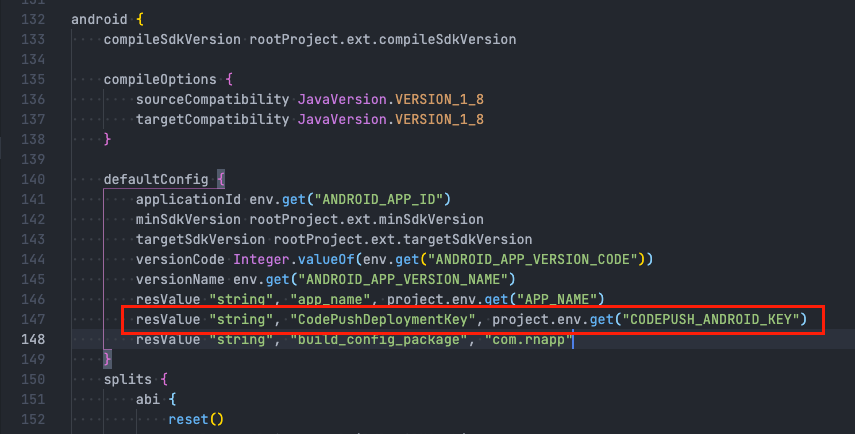
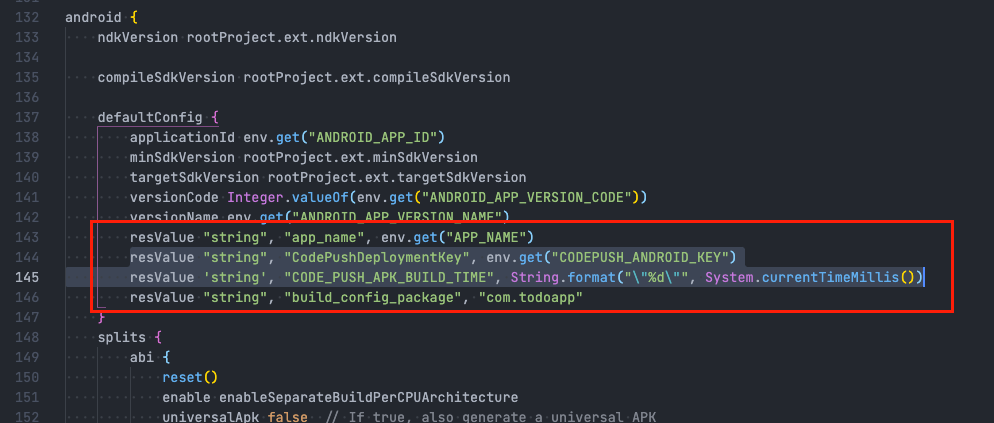
Update: react-native-guide

diff --git a/react-native-guide/environment-setup/environment-setup.md b/react-native-guide/environment-setup/environment-setup.md
@@ -125,7 +125,7 @@ apply from: project(':react-native-config').projectDir.getPath() + "/dotenv.grad
         targetSdkVersion rootProject.ext.targetSdkVersion
         versionCode Integer.valueOf(env.get("ANDROID_APP_VERSION_CODE"))
         versionName env.get("ANDROID_APP_VERSION_NAME")
-        resValue "string", "app_name", project.env.get("APP_NAME")
+        resValue "string", "app_name", env.get("APP_NAME")
         resValue "string", "build_config_package", {package-name}
     }
 ```

diff --git a/react-native-guide/code-push-setup/code-push-setup.md b/react-native-guide/code-push-setup/code-push-setup.md
@@ -81,7 +81,8 @@ apply from: "../../node_modules/react-native-code-push/android/codepush.gradle"
 3. Add this under `android { defaultConfig {...`
 
 ```
-resValue "string", "CodePushDeploymentKey", project.env.get("CODEPUSH_ANDROID_KEY")
+        resValue "string", "CodePushDeploymentKey", env.get("CODEPUSH_ANDROID_KEY")
+        resValue 'string', "CODE_PUSH_APK_BUILD_TIME", String.format("\"%d\"", System.currentTimeMillis())
 ```
 
 ![image](./guide-5.png)
